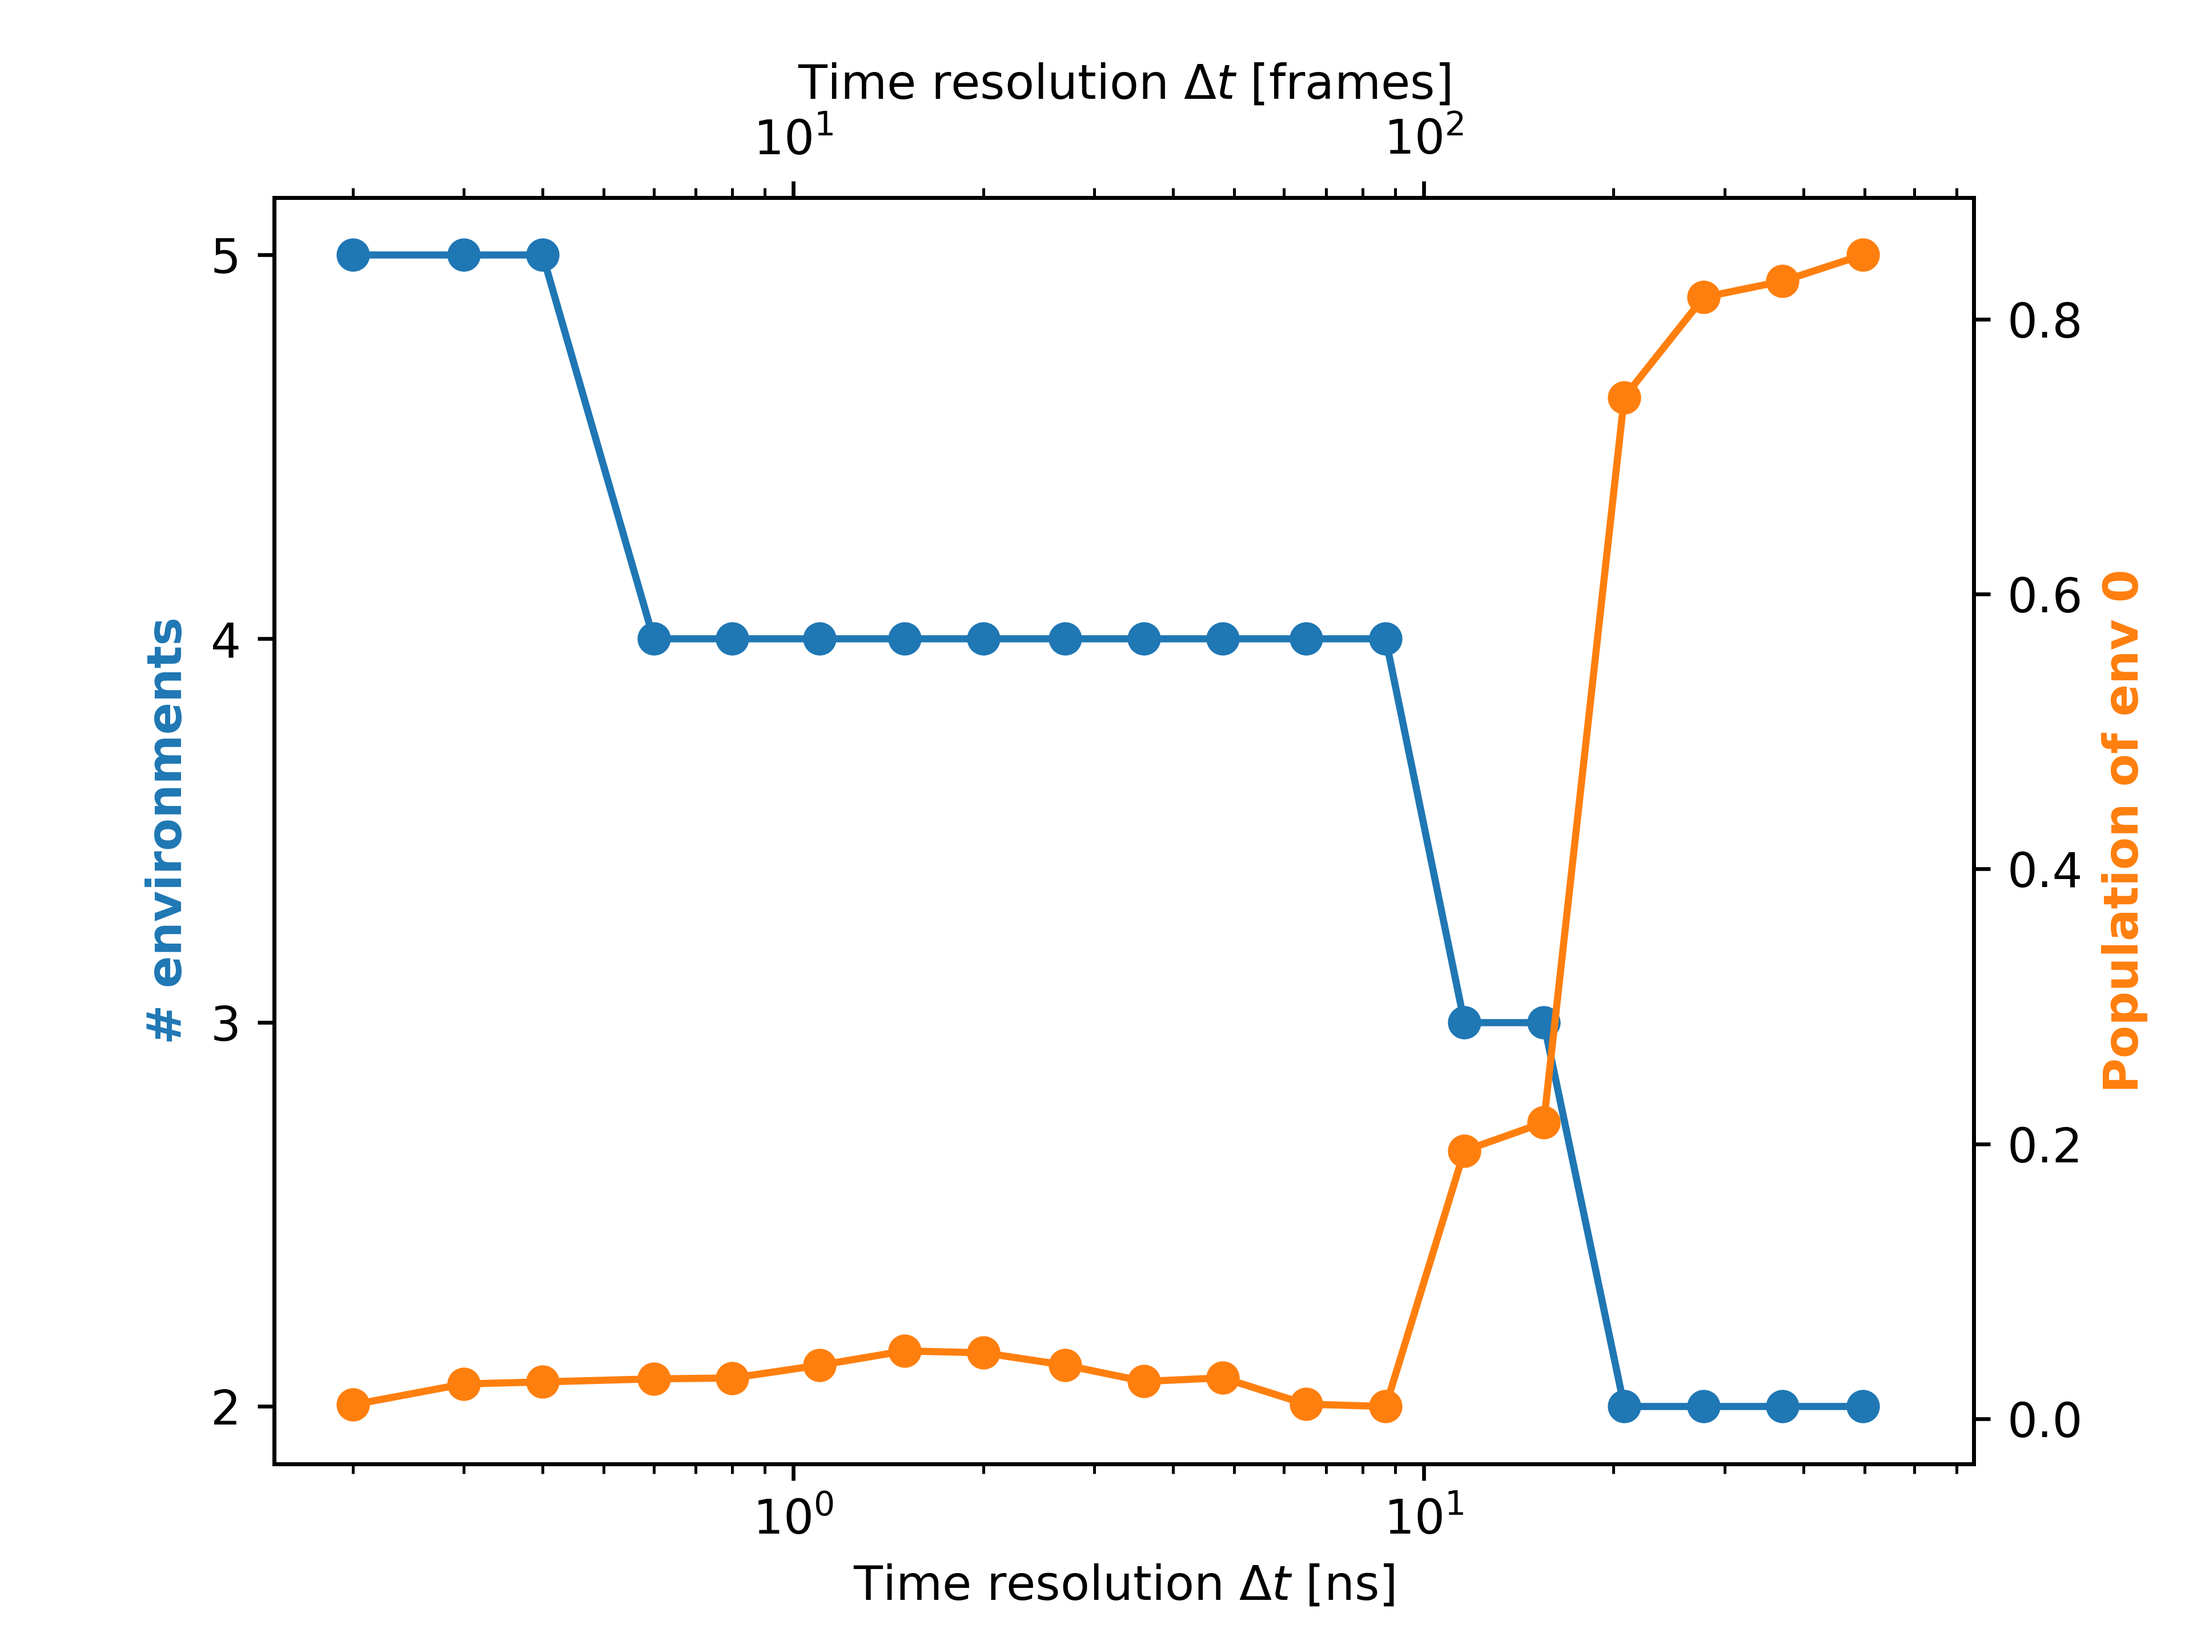
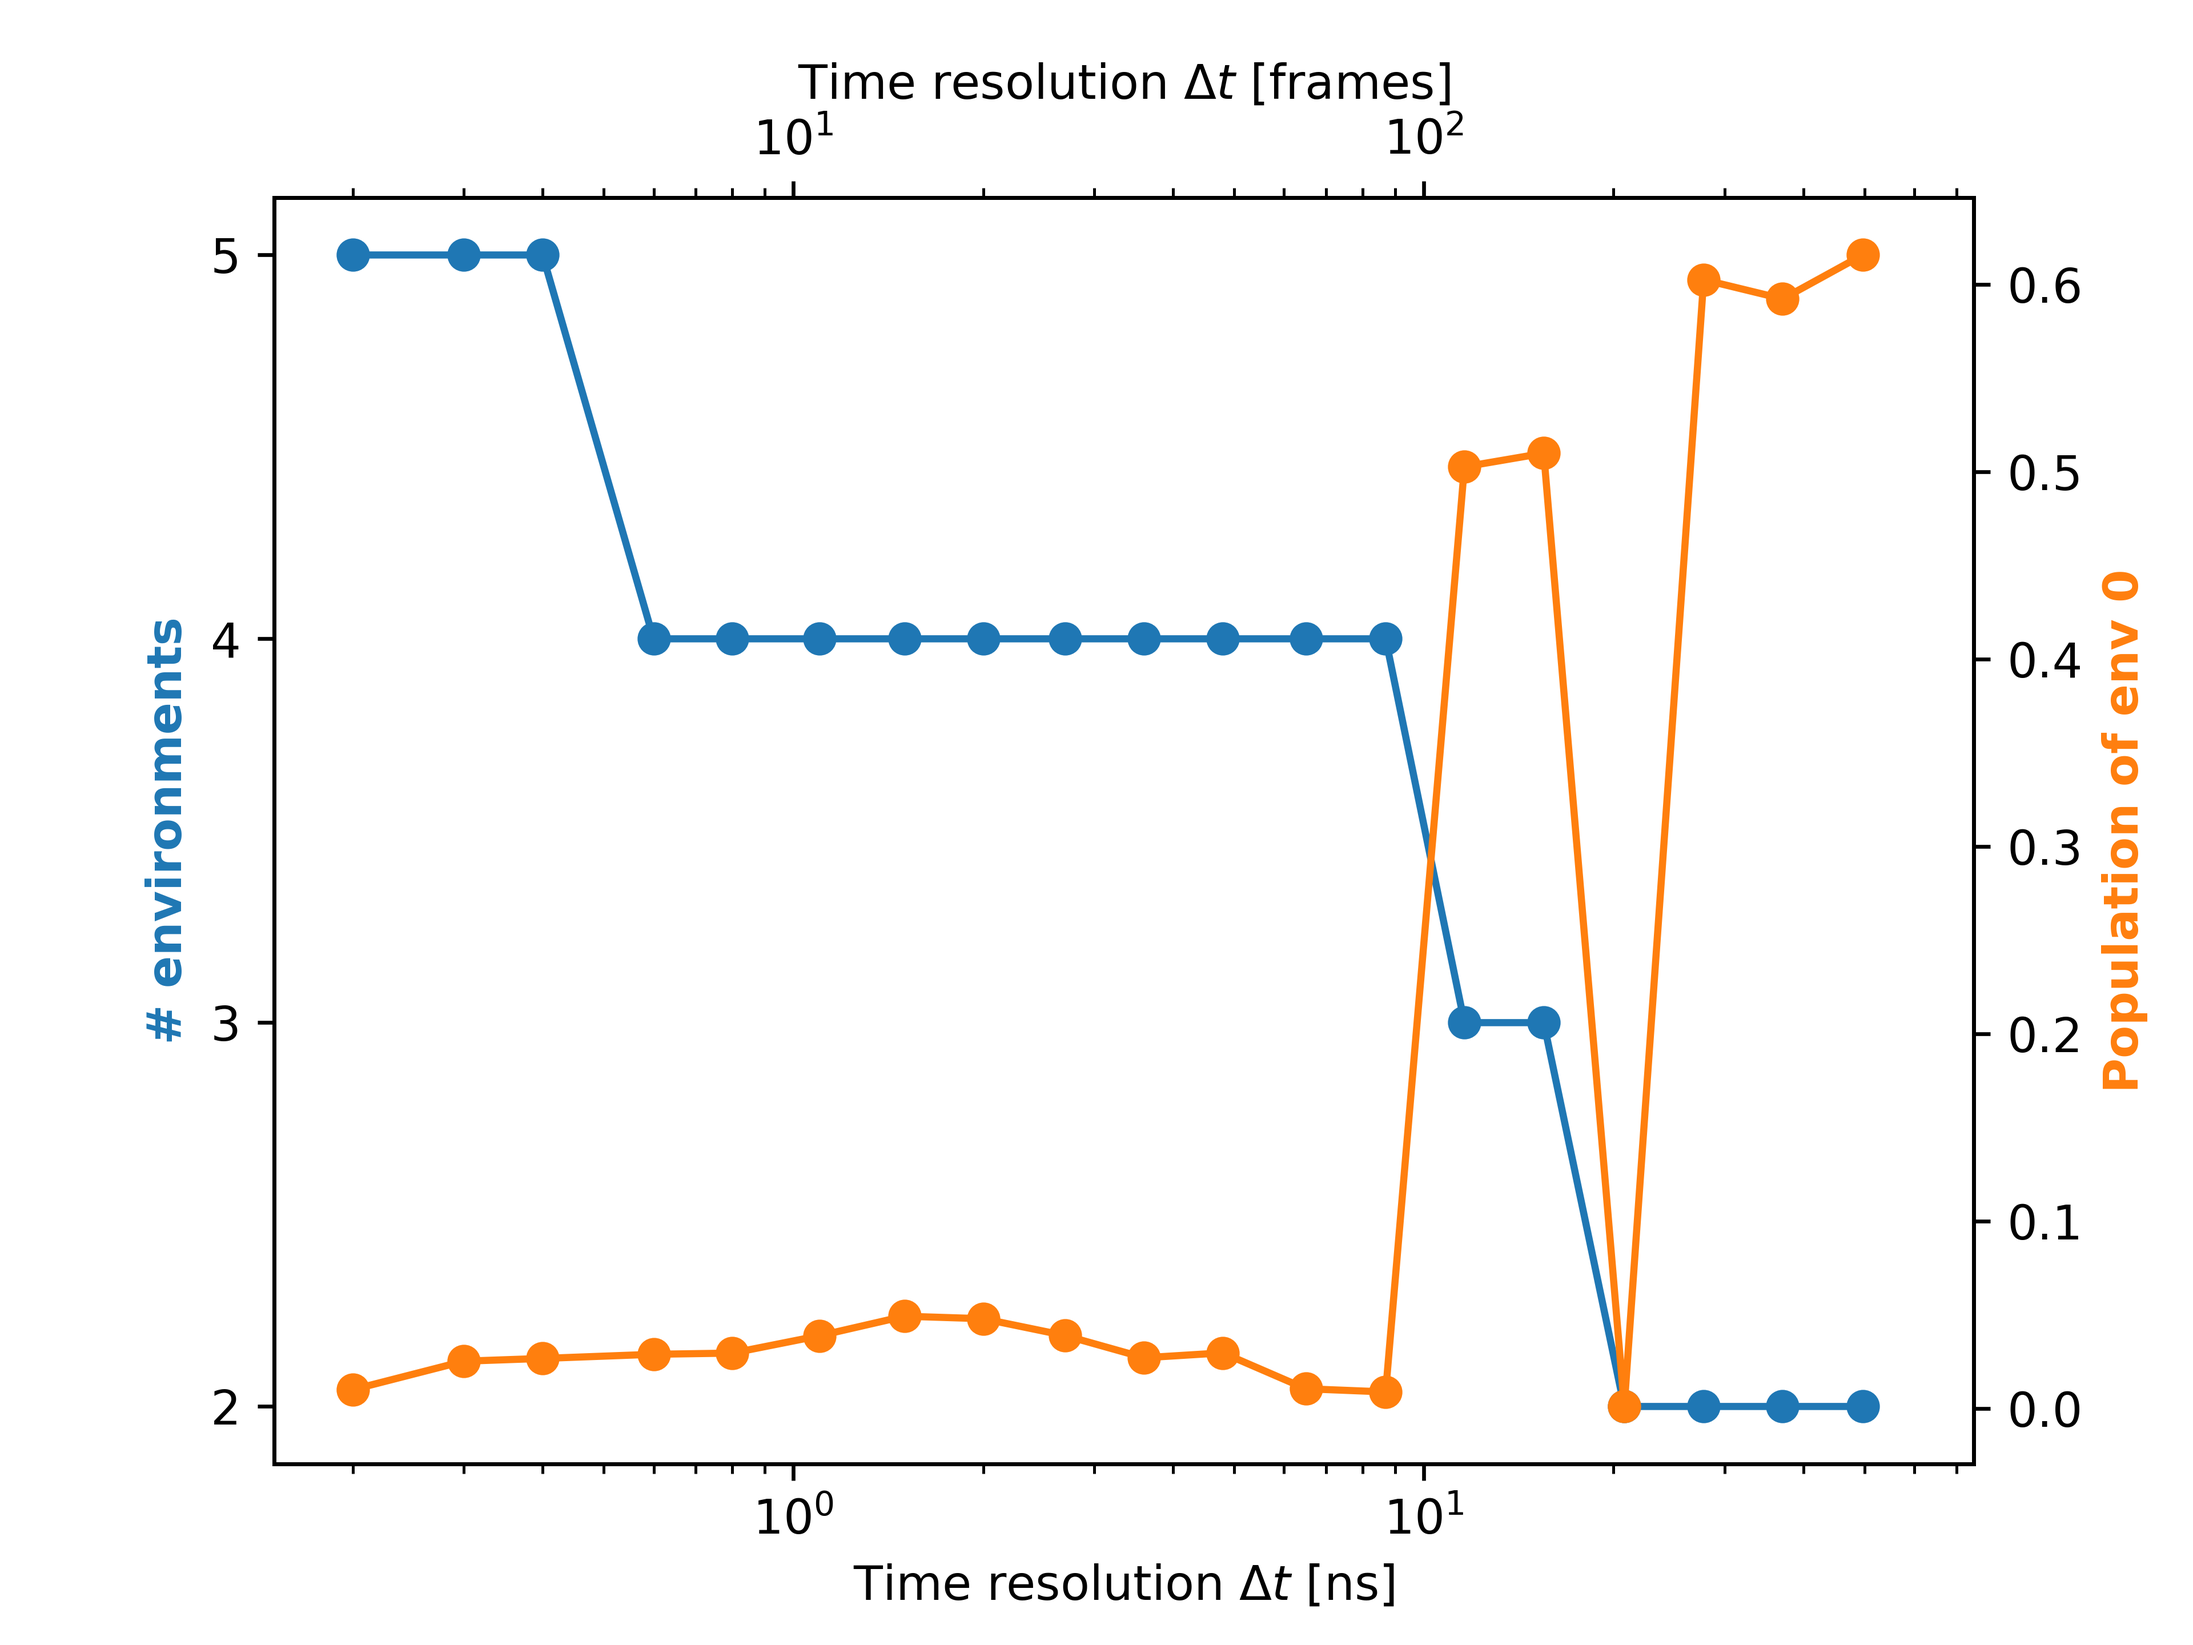
Improved efficiency in univariate clustering

diff --git a/functions.py b/functions.py
@@ -392,73 +392,132 @@ def set_final_states(list_of_states: list[State], all_the_labels: np.ndarray, m_
     - m_range (list[float]): Range of values in the data.
 
     Returns:
-    - tuple: A tuple containing the final list of states (list[State]) and
-             the newly labeled data (np.ndarray).
+    - tuple: A tuple containing the final list of states
+    (list[State]) and the newly labeled data (np.ndarray).
     """
 
+    ### Step 1: Merge together the states which are strongly overlapping
+    # Find all the possible merges: i could be merged into j --> [i, j]
+    proposed_merge = []
+    for i, st_0 in enumerate(list_of_states):
+        if i < len(list_of_states) - 1:
+            st_1 = list_of_states[i + 1]
+            if st_0.peak > st_1.peak and abs(st_1.mean - st_0.mean) < st_0.sigma:
+                proposed_merge.append([i + 1, i])
+        if i > 0:
+            st_1 = list_of_states[i - 1]
+            if st_0.peak > st_1.peak and abs(st_1.mean - st_0.mean) < st_0.sigma:
+                proposed_merge.append([i - 1, i])
+
+    # Find the best merges (merge into the closest candidate)
+    best_merge = []
+    states_to_be_merged = np.unique([ pair[0] for pair in proposed_merge ])
+    for j in states_to_be_merged:
+        candidate_merge = []
+        for pair in proposed_merge:
+            if pair[0] == j:
+                candidate_merge.append(pair)
+        if len(candidate_merge) == 1:
+            best_merge.append(candidate_merge[0])
+        else:
+            list_of_distances = [np.linalg.norm(list_of_states[pair[1]].mean -
+                list_of_states[pair[0]].mean) for pair in candidate_merge]
+            best_merge.append(candidate_merge[np.argmin(list_of_distances)])
+
+    # Settle merging chains
+    # if [i, j], all the [k, i] become [k, j]
+    for pair in best_merge:
+        for j, elem in enumerate(best_merge):
+            if elem[1] == pair[0]:
+                best_merge[j][1] = pair[1]
+
+    # Relabel the labels in all_the_labels
+    relabel_dic = {}
+    for pair in best_merge:
+        relabel_dic[pair[0]] = pair[1]
+    relabel_map = np.zeros(max(np.unique(all_the_labels) + 1), dtype=int)
+    for i, _ in enumerate(relabel_map):
+        relabel_map[i] = i
+    for key, value in relabel_dic.items():
+        relabel_map[key + 1] = value + 1
+
+    all_the_labels = relabel_map[all_the_labels.flatten()].reshape(all_the_labels.shape)
+
+    # Remove merged states from the state list
+    states_to_remove = set(s0 for s0, s1 in best_merge)
+    updated_states = [state for i, state in enumerate(list_of_states) if i not in states_to_remove]
+
+    # Compute the fraction of data points in each state
+    for st_id, state in enumerate(updated_states):
+        num_of_points = np.sum(all_the_labels == st_id + 1)
+        state.perc = num_of_points / all_the_labels.size
+
+    #####################################################################################
+    ### Old code, can delete oit when we're sure that everything works ###
     # Step 1: Define a criterion to determine which states are considered "final."
     # Iterate over pairs of states to compare their properties.
-    old_to_new_map = []
-    tmp_list = []
+    # old_to_new_map = []
+    # tmp_list = []
 
-    for id_s0, st_0 in enumerate(list_of_states):
-        for id_s1, st_1 in enumerate(list_of_states[id_s0 + 1:]):
-            # Check whether the criteria for considering a state as "final" is met.
-            if st_0.peak > st_1.peak and abs(st_1.mean - st_0.mean) < st_0.sigma:
-                tmp_list.append(id_s1 + id_s0 + 1)
-                old_to_new_map.append([id_s1 + id_s0 + 1, id_s0])
-            elif st_0.peak < st_1.peak and abs(st_1.mean - st_0.mean) < st_1.sigma:
-                tmp_list.append(id_s0)
-                old_to_new_map.append([id_s0, id_s1 + id_s0 + 1])
+    # for id_s0, st_0 in enumerate(list_of_states):
+    #     for id_s1, st_1 in enumerate(list_of_states[id_s0 + 1:]):
+    #         # Check whether the criteria for considering a state as "final" is met.
+    #         if st_0.peak > st_1.peak and abs(st_1.mean - st_0.mean) < st_0.sigma:
+    #             tmp_list.append(id_s1 + id_s0 + 1)
+    #             old_to_new_map.append([id_s1 + id_s0 + 1, id_s0])
+    #         elif st_0.peak < st_1.peak and abs(st_1.mean - st_0.mean) < st_1.sigma:
+    #             tmp_list.append(id_s0)
+    #             old_to_new_map.append([id_s0, id_s1 + id_s0 + 1])
 
-    # Step 2: Remove states that don't meet the "final" criterion from the 'list_of_states'.
-    # Note: The loop iterates in reverse to avoid index errors when removing elements.
-    tmp_list = np.unique(tmp_list)[::-1]
-    for state_id in tmp_list:
-        list_of_states.pop(state_id)
+    # # Step 2: Remove states that don't meet the "final" criterion from the 'list_of_states'.
+    # # Note: The loop iterates in reverse to avoid index errors when removing elements.
+    # tmp_list = np.unique(tmp_list)[::-1]
+    # for state_id in tmp_list:
+    #     list_of_states.pop(state_id)
 
-    list_of_states = sorted(list_of_states, key=lambda x: x.mean)
+    # list_of_states = sorted(list_of_states, key=lambda x: x.mean)
 
-    # Relabel according to the new states
-    for mol_id in range(all_the_labels.shape[0]):
-        for window_id in range(all_the_labels.shape[1]):
-            for pair_id in range(len(old_to_new_map[::-1])):
-                if all_the_labels[mol_id][window_id] == old_to_new_map[pair_id][0] + 1:
-                    all_the_labels[mol_id][window_id] = old_to_new_map[pair_id][1] + 1
+    # # Relabel according to the new states
+    # for mol_id in range(all_the_labels.shape[0]):
+    #     for window_id in range(all_the_labels.shape[1]):
+    #         for pair_id in range(len(old_to_new_map[::-1])):
+    #             if all_the_labels[mol_id][window_id] == old_to_new_map[pair_id][0] + 1:
+    #                 all_the_labels[mol_id][window_id] = old_to_new_map[pair_id][1] + 1
 
-    list_unique = np.unique(all_the_labels)
-    label_to_index = {label: index for index, label in enumerate(list_unique)}
-    new_labels = np.vectorize(label_to_index.get)(all_the_labels)
+    # list_unique = np.unique(all_the_labels)
+    # label_to_index = {label: index for index, label in enumerate(list_unique)}
+    # new_labels = np.vectorize(label_to_index.get)(all_the_labels)
+    #####################################################################################
 
-    # Step 3: Calculate the final threshold values
+    # Step 2: Calculate the final threshold values
     # and their types based on the intercept between neighboring states.
 
-    list_of_states[0].th_inf[0] = m_range[0]
-    list_of_states[0].th_inf[1] = 0
+    updated_states[0].th_inf[0] = m_range[0]
+    updated_states[0].th_inf[1] = 0
 
-    for i in range(len(list_of_states) - 1):
-        th_val, th_type = find_intersection(list_of_states[i], list_of_states[i + 1])
-        list_of_states[i].th_sup[0] = th_val
-        list_of_states[i].th_sup[1] = th_type
-        list_of_states[i + 1].th_inf[0] = th_val
-        list_of_states[i + 1].th_inf[1] = th_type
+    for i in range(len(updated_states) - 1):
+        th_val, th_type = find_intersection(updated_states[i], updated_states[i + 1])
+        updated_states[i].th_sup[0] = th_val
+        updated_states[i].th_sup[1] = th_type
+        updated_states[i + 1].th_inf[0] = th_val
+        updated_states[i + 1].th_inf[1] = th_type
 
-    list_of_states[-1].th_sup[0] = m_range[1]
-    list_of_states[-1].th_sup[1] = 0
+    updated_states[-1].th_sup[0] = m_range[1]
+    updated_states[-1].th_sup[1] = 0
 
-    # Step 4: Write the final states and final thresholds to text files.
+    # Step 3: Write the final states and final thresholds to text files.
     # The data is saved in two separate files: 'final_states.txt' and 'final_thresholds.txt'.
     with open('final_states.txt', 'w', encoding="utf-8") as file:
         print('# Mu \t Sigma \t A \t state_fraction', file=file)
-        for state in list_of_states:
+        for state in updated_states:
             print(state.mean, state.sigma, state.area, state.perc, file=file)
     with open('final_thresholds.txt', 'w', encoding="utf-8") as file:
-        for state in list_of_states:
+        for state in updated_states:
             print(state.th_inf[0], state.th_inf[1], file=file)
-        print(list_of_states[-1].th_sup[0], list_of_states[-1].th_sup[1], file=file)
+        print(updated_states[-1].th_sup[0], updated_states[-1].th_sup[1], file=file)
 
-    # Step 5: Return the 'list_of_states' as the output of the function.
-    return list_of_states, new_labels
+    # Step 5: Return the 'updated_states' as the output of the function.
+    return updated_states, all_the_labels
 
 def relabel_states_2d(all_the_labels: np.ndarray, states_list: list[StateMulti]):
     """

diff --git a/main.py b/main.py
@@ -411,7 +411,7 @@ def iterative_search(m_clean: np.ndarray, par: Parameters, name: str):
 
     # Initialize an array to store labels for each window.
     num_windows = int(m_clean.shape[1] / par.tau_w)
-    all_the_labels = np.zeros((m_clean.shape[0], num_windows))
+    all_the_labels = np.zeros((m_clean.shape[0], num_windows)).astype(int)
 
     states_list = []
     m_copy = m_clean
